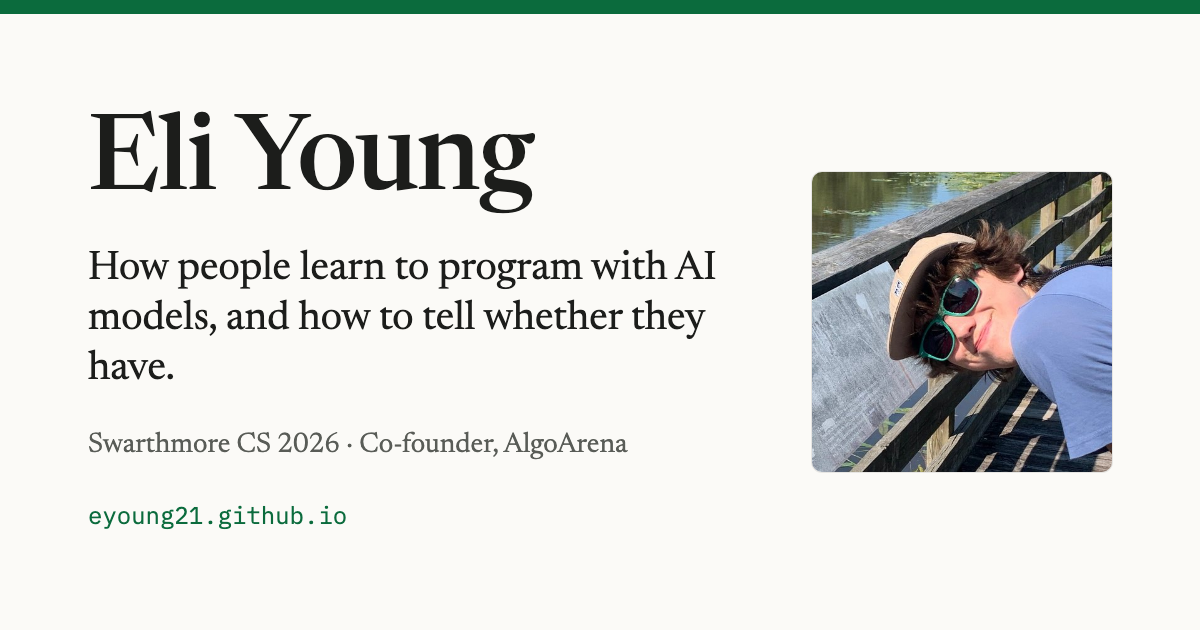
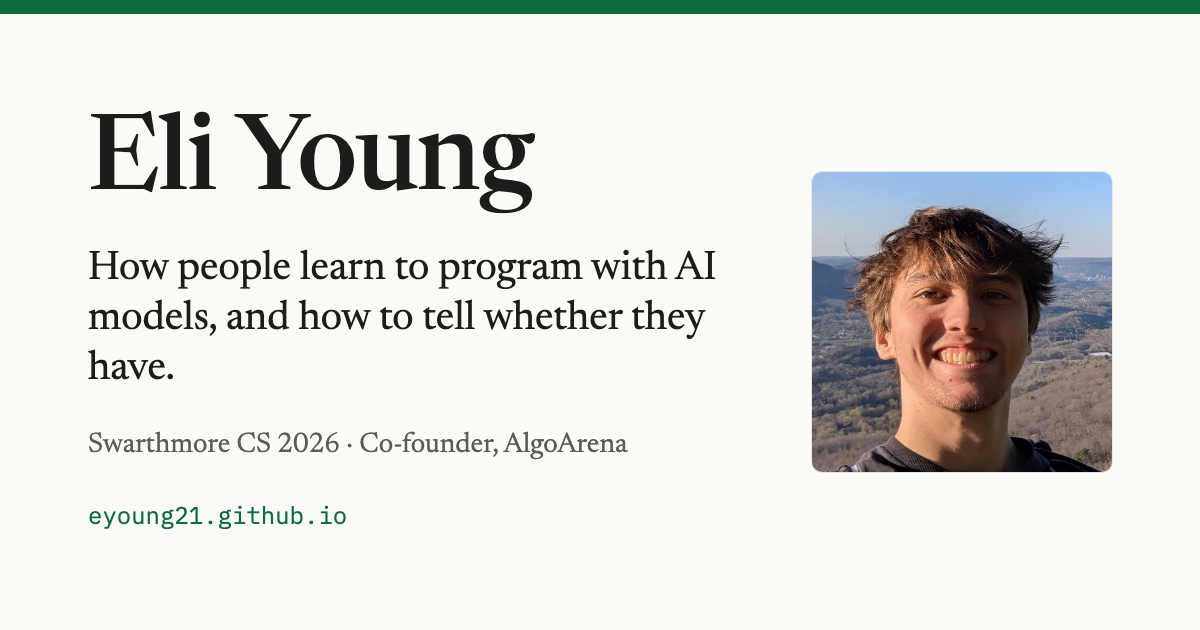
Refresh AlgoArena numbers, swap in a clear headshot, trim two claims
- Counts recounted read-only from production Firestore on 2026-11-01:
  9,461 live problems, ~1,200 registered (non-guest) accounts, 1,149
  completed matches. Classroom: 11 unaffiliated hosts ran 15 live
  quizzes with students (Apr to Oct 2026), using the CCSC paper's rules
  plus its at-least-one-student filter, with the former intern's QA quiz
  excluded.
- Name the Bryn Mawr pilot course (Competitive Coding Algorithms, CS283)
  per the Digital Bryn Mawr grant letter.
- Public CV rebuilt with the same numbers; it previously repeated an
  inflated "fifteen independent instructors" figure.
- Use the AlgoArena team headshot (already public on algoarena.net) in
  place of the sunglasses photo; regenerate the OG card.
- Drop the "applying to PhD programs" line and the unverifiable ICPC
  "5th place" (Kattis shows 66th of 110 in Division 2).

Changed region(s): [[0.6783, 0.2714, 0.925, 0.754]]

diff --git a/index.html b/index.html
@@ -74,9 +74,9 @@
             <h1>Eli Young</h1>
             <p class="lede">I study how people learn to program with AI models, and how to tell whether they have.</p>
         </div>
-        <img class="portrait" src="imgs/eli.jpg" width="480" height="480" alt="Eli Young, in a hat and sunglasses, leaning on a boardwalk railing">
+        <img class="portrait" src="imgs/eli.jpg" width="480" height="480" alt="Eli Young, smiling, outdoors">
         <div class="intro-body">
-            <p>I graduated from Swarthmore College in 2026 with a B.A. in computer science. I co-founded <a href="https://algoarena.net">AlgoArena</a>, a coding platform for practice, classes, and hiring, and most of my research runs on it. I work with Andy Luu and Michael Wehar. I&rsquo;m applying to computer science PhD programs for Fall 2027.</p>
+            <p>I graduated from Swarthmore College in 2026 with a B.A. in computer science. I co-founded <a href="https://algoarena.net">AlgoArena</a>, a coding platform for practice, classes, and hiring, and most of my research runs on it. I work with Andy Luu and Michael Wehar.</p>
             <p class="contact-line">
                 <a href="mailto:eliyoung4now@gmail.com">eliyoung4now@gmail.com</a> ·
                 <a href="Eli_Young_CV.pdf">CV</a> ·
@@ -93,7 +93,7 @@
         <p>Models that write code are here to stay, but most courses treat them as something to police, and most assessments grade only the final code. A passing test suite doesn&rsquo;t show how the code was written or whether its author understood it. My research asks three questions about a person programming with a model: what to assess, how to assess it, and what the assessment predicts.</p>
         <p><strong>Assessment.</strong> We proposed a framework that scores a recorded programming session on five competencies: how the student breaks down the problem, plans, prompts, checks the model&rsquo;s output, and steers an agent that goes wrong. It is a proposal, not yet a validated instrument. To make validation possible, I built much of AlgoArena&rsquo;s assessment environment, an editor where the model can change files and run commands, and where every prompt, edit, test run, and diff review is saved as a replayable trace.</p>
         <p><strong>Teaching.</strong> We wrote an open curriculum for building software by directing a model: writing a specification, supervising coding agents, and checking what they produce. We are expanding it into a free textbook, <a href="https://algoarena.net/textbook"><cite>Vibecoding: Introduction to Applied AI</cite></a>.</p>
-        <p><strong>Practice in class.</strong> AlgoArena Classroom runs live quizzes in CS courses. Students predict a program&rsquo;s output, give an algorithm&rsquo;s running time, write code that is graded against test cases, or draw a data structure. Michael Wehar piloted it in his Competitive Coding Algorithms course (CS 283) at Bryn Mawr College in spring 2026, and instructors with no tie to the project have since run sessions of their own. The pilot was too small to show an effect on learning, so a full course evaluation comes next.</p>
+        <p><strong>Practice in class.</strong> AlgoArena Classroom runs live quizzes in CS courses. Students predict a program&rsquo;s output, give an algorithm&rsquo;s running time, write code that is graded against test cases, or draw a data structure. Michael Wehar piloted it in his Competitive Coding Algorithms course (CS 283) at Bryn Mawr College in spring 2026. As of November 2026, eleven hosts with no tie to the project have run fifteen live quizzes for their own classes and groups, the largest with seventeen students. The pilot was too small to show an effect on learning, so a full course evaluation comes next.</p>
         <p>From here I want to validate the framework with graders who rate sessions blind to it, train models that predict their ratings from session logs, and compare courses that teach AI-assisted programming openly with courses that don&rsquo;t.</p>
         <p class="note">Before this I worked on applied machine learning. As an NSF REU fellow in Mohammed Kamruzzaman&rsquo;s lab at the University of Illinois, I predicted egg viability and chick sex from daily hyperspectral images of incubating eggs, reaching 93.8% viability accuracy by day four with all model fitting kept inside the validation folds. I&rsquo;m writing the manuscript as first author. At Swarthmore, advised by Gabriel Hope, I classified insect feeding behavior from electrical recordings for a USDA ARS project.</p>
     </section>
@@ -146,7 +146,7 @@
             <div>
                 <h3><a href="https://algoarena.net">AlgoArena</a></h3>
                 <p class="meta">Co-founder and CEO · 2025 to present</p>
-                <p>A coding platform for practice, classes, and hiring. It runs live 1v1 matches, the classroom quizzes and AI coding assessment described above, and more than 8,000 problems judged in 17 languages. About 1,000 people have registered, Bryn Mawr College paid for the pilot subscription through a Digital Bryn Mawr grant, and we have run AI coding hackathons at the University of Rhode Island and Haverford College.</p>
+                <p>A coding platform for practice, classes, and hiring. It runs live 1v1 matches, the classroom quizzes and AI coding assessment described above, and more than 9,400 problems judged in 17 languages. About 1,200 people have registered accounts, Bryn Mawr College paid for the pilot subscription through a Digital Bryn Mawr grant, and we have run AI coding hackathons at the University of Rhode Island and Haverford College.</p>
                 <p>I write much of the code, usually by running several coding agents at once. Next.js, TypeScript, Firebase, AWS Bedrock.</p>
             </div>
         </article>
@@ -209,7 +209,7 @@
             <li><span class="when">2024</span><div><strong>CS student mentor</strong> at Swarthmore for CPSC 31 and CPSC 35.</div></li>
             <li><span class="when">2026</span><div><strong>Medici Project Grant</strong> from the 1517 Fund.</div></li>
             <li><span class="when">2025</span><div><strong>Poster and Science Slam talk</strong> on the egg imaging work at the STEM Career Exploration and Symposium.</div></li>
-            <li><span class="when">2024</span><div><strong>5th place</strong> at the Wilkes site of the ICPC Mid-Atlantic Regional.</div></li>
+            <li><span class="when">2024</span><div><strong>ICPC</strong>, competed for Swarthmore at the North America South Regional.</div></li>
             <li><span class="when">2023–2026</span><div><strong>Swarthmore Magic: The Gathering Club</strong>, founder and president.</div></li>
         </ul>
         <p class="small">Outside of work I play pickup basketball and automate whatever annoys me, like the spam voicemails above.</p>
